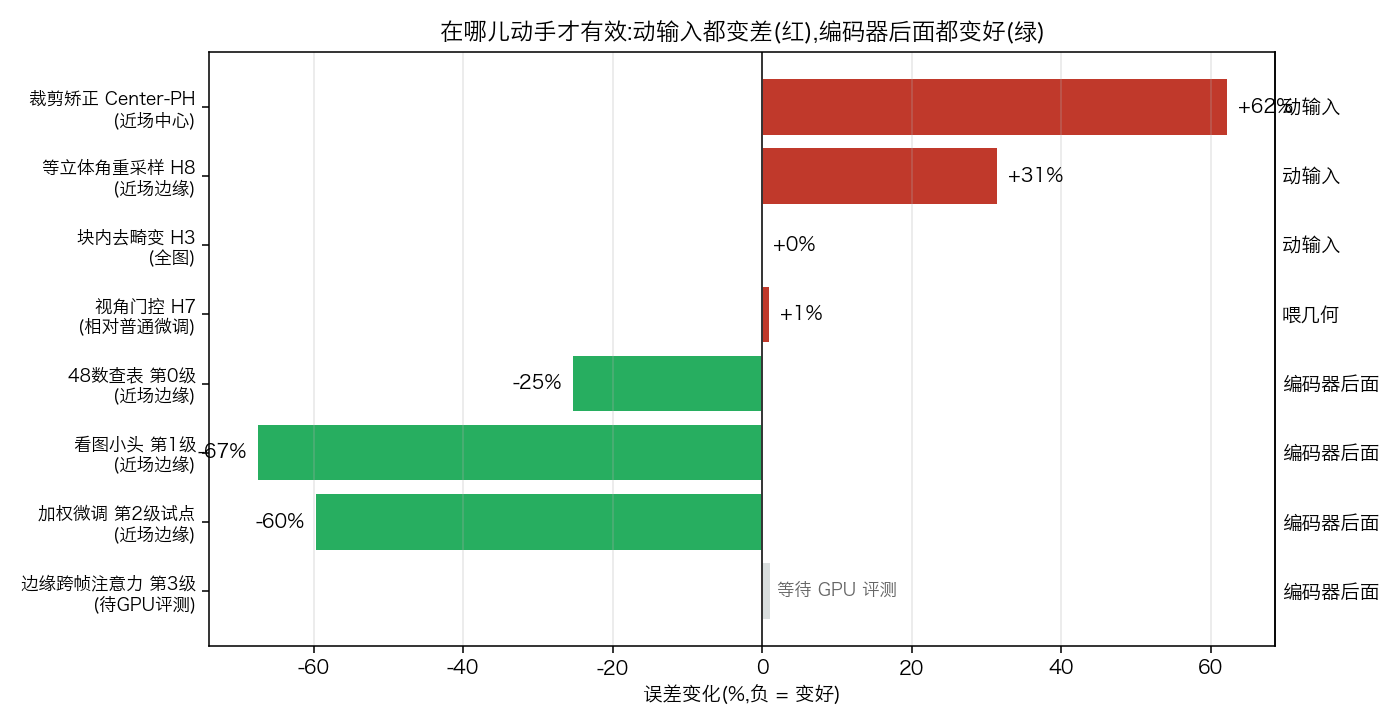
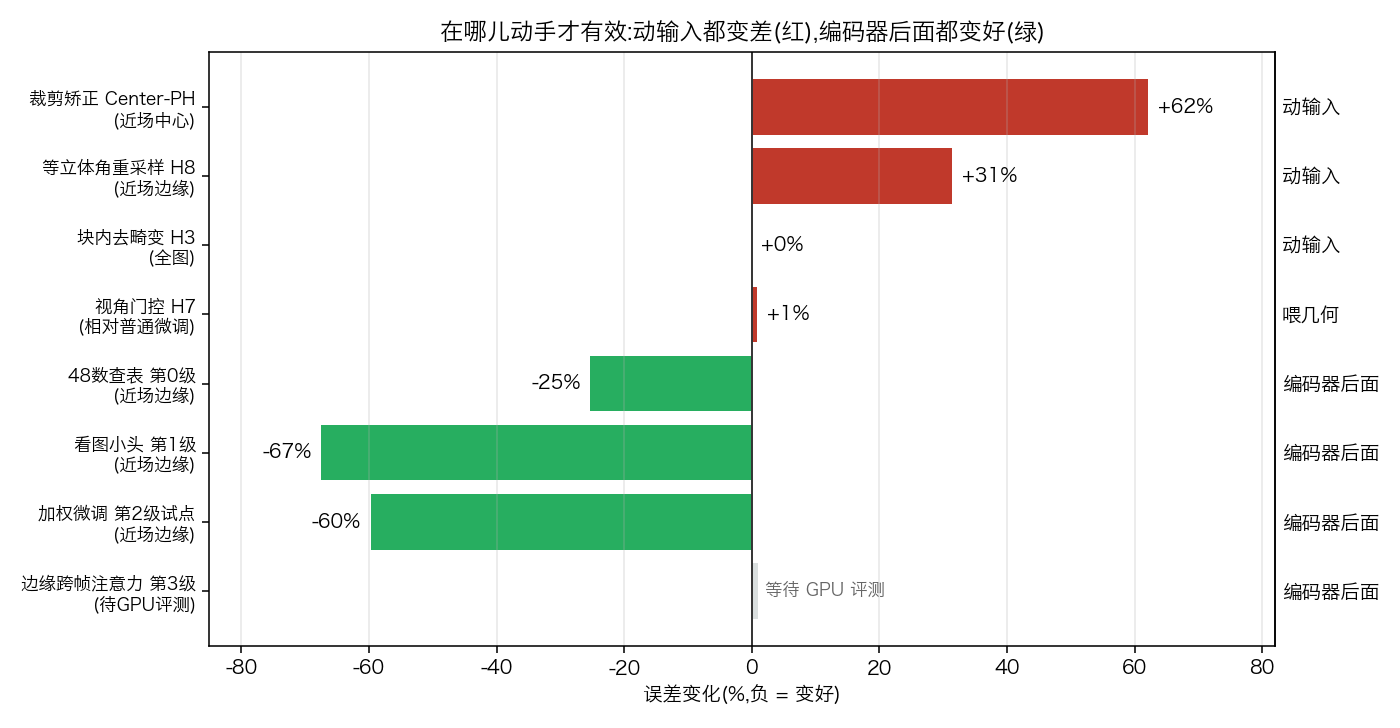
research(reflect): dashboard polish — svg labels, panorama margins

diff --git a/autoresearch/to_human/dashboard.html b/autoresearch/to_human/dashboard.html
@@ -57,9 +57,9 @@
 <svg viewBox="0 0 360 150" style="width:100%">
 <rect x="5" y="55" width="70" height="40" rx="6" fill="#d6eaf8"/><text x="40" y="79" text-anchor="middle" font-size="12">两帧输入</text>
 <rect x="95" y="55" width="100" height="40" rx="6" fill="#e8e8e8"/><text x="145" y="73" text-anchor="middle" font-size="12">大模型+LoRA</text><text x="145" y="88" text-anchor="middle" font-size="10">只微调最后4层MLP</text>
-<rect x="215" y="8" width="140" height="30" rx="6" fill="#fef9e7" stroke="#e67e22"/><text x="285" y="27" text-anchor="middle" font-size="10">损失① 按实测压缩图加权的深度损失</text>
-<rect x="215" y="60" width="140" height="30" rx="6" fill="#fef9e7" stroke="#e67e22"/><text x="285" y="79" text-anchor="middle" font-size="10">损失② 边缘特征保真(保姿态)</text>
-<rect x="215" y="112" width="140" height="30" rx="6" fill="#fef9e7" stroke="#e67e22"/><text x="285" y="131" text-anchor="middle" font-size="10">损失③ 跨帧边缘一致(引视差)</text>
+<rect x="210" y="8" width="148" height="30" rx="6" fill="#fef9e7" stroke="#e67e22"/><text x="284" y="27" text-anchor="middle" font-size="9.5">损失① 实测压缩图加权深度</text>
+<rect x="210" y="60" width="148" height="30" rx="6" fill="#fef9e7" stroke="#e67e22"/><text x="284" y="79" text-anchor="middle" font-size="9.5">损失② 边缘特征保真(保姿态)</text>
+<rect x="210" y="112" width="148" height="30" rx="6" fill="#fef9e7" stroke="#e67e22"/><text x="284" y="131" text-anchor="middle" font-size="9.5">损失③ 跨帧边缘一致(引视差)</text>
 <line x1="75" y1="75" x2="95" y2="75" stroke="#333" marker-end="url(#a)"/>
 <line x1="195" y1="65" x2="215" y2="25" stroke="#333" marker-end="url(#a)"/>
 <line x1="195" y1="75" x2="215" y2="75" stroke="#333" marker-end="url(#a)"/>

diff --git a/autoresearch/src/plot_dashboard_2026-08-19.py b/autoresearch/src/plot_dashboard_2026-08-19.py
@@ -51,6 +51,7 @@ for y, (lab, v, c, grp) in zip(ys, items):
                 ha="left" if v >= 0 else "right", fontsize=10, fontweight="bold")
 ax.set_yticks(ys, [i[0] for i in items], fontsize=9)
 ax.axvline(0, color="#333", lw=1)
+ax.set_xlim(-85, 82)
 ax.set_xlabel("误差变化(%,负 = 变好)")
 ax.set_title("在哪儿动手才有效:动输入都变差(红),编码器后面都变好(绿)")
 ax.grid(alpha=.3, axis="x")
